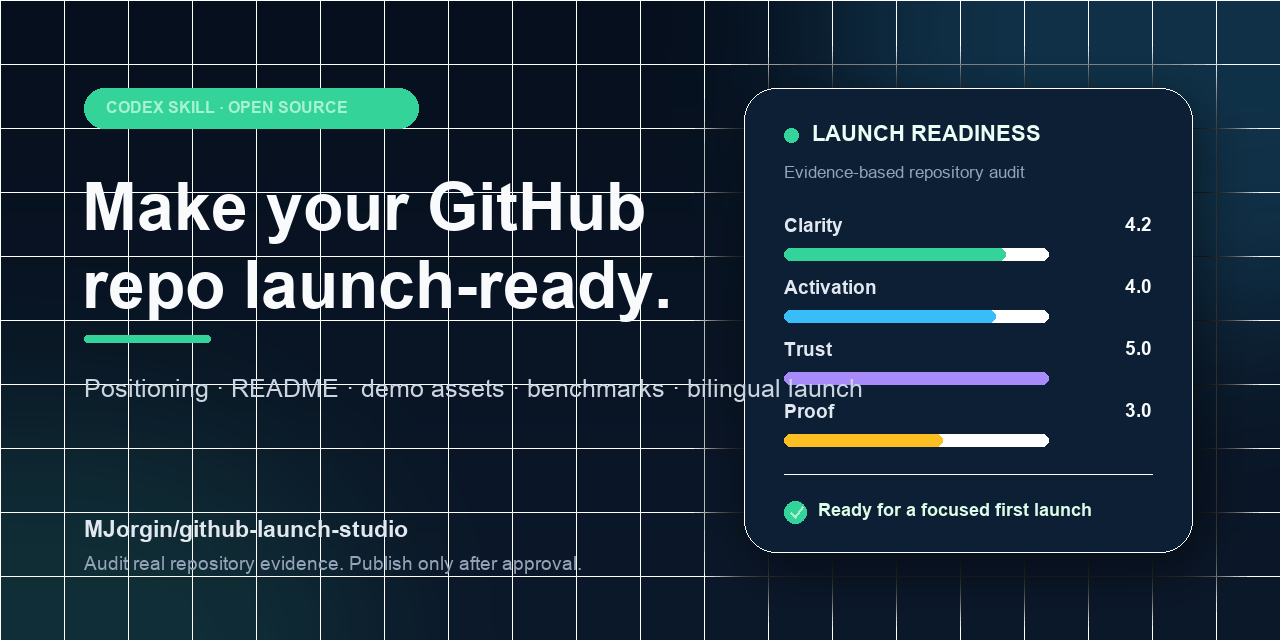
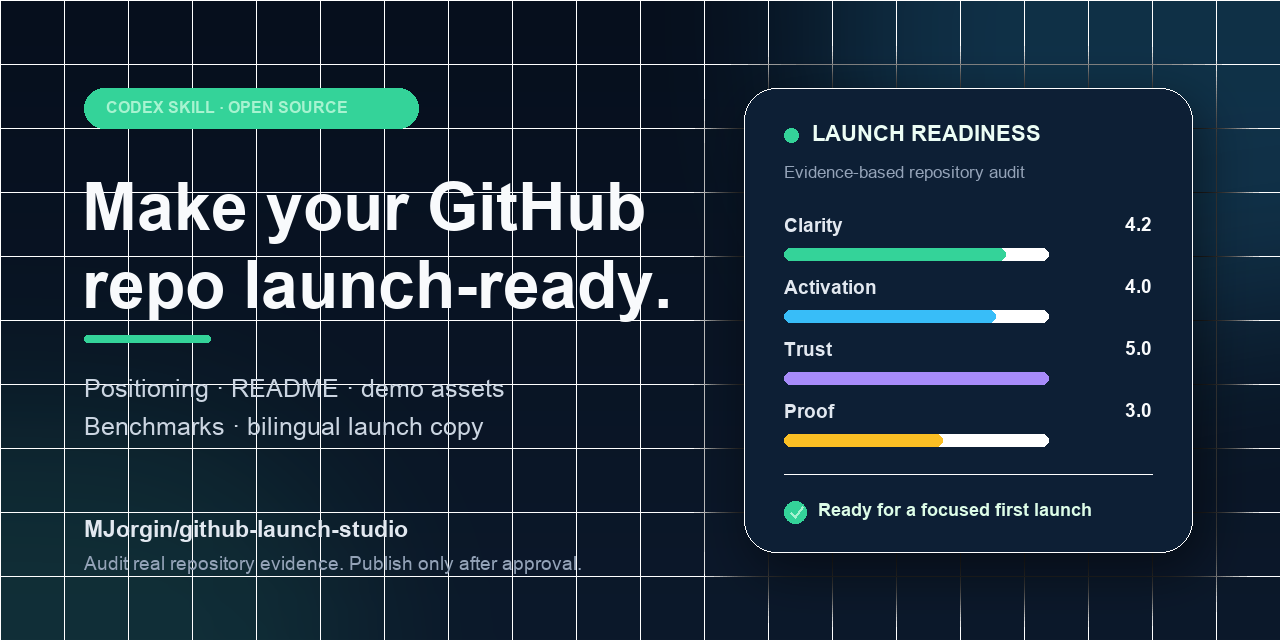
fix: keep social card subtitle inside left safe zone

Changed region(s): [[0.0625, 0.6562, 0.375, 0.6875], [0.4062, 0.5938, 0.6875, 0.625]]

diff --git a/scripts/render_social_card.py b/scripts/render_social_card.py
@@ -120,8 +120,14 @@ def render(output: Path) -> None:
     draw.text((82, 248), "repo launch-ready.", font=bold(66), fill=(248, 250, 252, 255))
     draw.rounded_rectangle((84, 335, 210, 342), radius=4, fill=(52, 211, 153, 210))
 
-    subtitle = "Positioning · README · demo assets · benchmarks · bilingual launch"
-    draw.text((84, 374), subtitle, font=regular(25), fill=(203, 213, 225, 255))
+    subtitle_lines = [
+        "Positioning · README · demo assets",
+        "Benchmarks · bilingual launch copy",
+    ]
+    subtitle_y = 374
+    for line in subtitle_lines:
+        draw.text((84, subtitle_y), line, font=regular(25), fill=(203, 213, 225, 255))
+        subtitle_y += 38
 
     draw.text((84, 516), "MJorgin/github-launch-studio", font=bold(23), fill=(226, 232, 240, 255))
     draw.text((84, 552), "Audit real repository evidence. Publish only after approval.", font=regular(19), fill=(148, 163, 184, 255))
